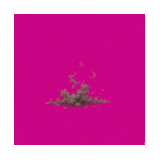
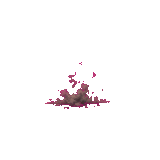
Clear the magenta plate on explosion and scaffold art.
Boom frames and the scaffold sheets used an opaque #C90485 background, so hits and damaged buildings flashed a pink square. Those pixels are transparent in the files, and a failed key at load time draws a blank frame instead of the raw plate. Other sheets such as jungle, cliff, and supply do not have that plate.

diff --git a/src/game/art.ts b/src/game/art.ts
@@ -52,6 +52,14 @@ function nearKey(r: number, g: number, b: number): boolean {
   return Math.abs(r - KEY_R) <= KEY_TOL && Math.abs(g - KEY_G) <= KEY_TOL && Math.abs(b - KEY_B) <= KEY_TOL;
 }
 
+/** A failed read must not draw the raw plate. An empty frame is blank, never magenta. */
+function emptyPlate(w: number, h: number): HTMLCanvasElement {
+  const canvas = document.createElement("canvas");
+  canvas.width = Math.max(1, w);
+  canvas.height = Math.max(1, h);
+  return canvas;
+}
+
 /** Drop the magenta plate so drawImage does not flash a pink square. */
 function punchKey(img: HTMLImageElement, label: string): CanvasImageSource {
   if (typeof document === "undefined") return img;
@@ -64,7 +72,7 @@ function punchKey(img: HTMLImageElement, label: string): CanvasImageSource {
   const ctx = canvas.getContext("2d", { willReadFrequently: true });
   if (!ctx) {
     console.warn(`VIRIDITE: could not key ${label}. The magenta plate lives in art.ts punchKey.`);
-    return img;
+    return emptyPlate(w, h);
   }
   ctx.drawImage(img, 0, 0);
   let data: ImageData;
@@ -72,7 +80,7 @@ function punchKey(img: HTMLImageElement, label: string): CanvasImageSource {
     data = ctx.getImageData(0, 0, w, h);
   } catch {
     console.warn(`VIRIDITE: could not read ${label}. The magenta plate lives in art.ts punchKey.`);
-    return img;
+    return emptyPlate(w, h);
   }
   const px = data.data;
   for (let i = 0; i < px.length; i += 4) {
